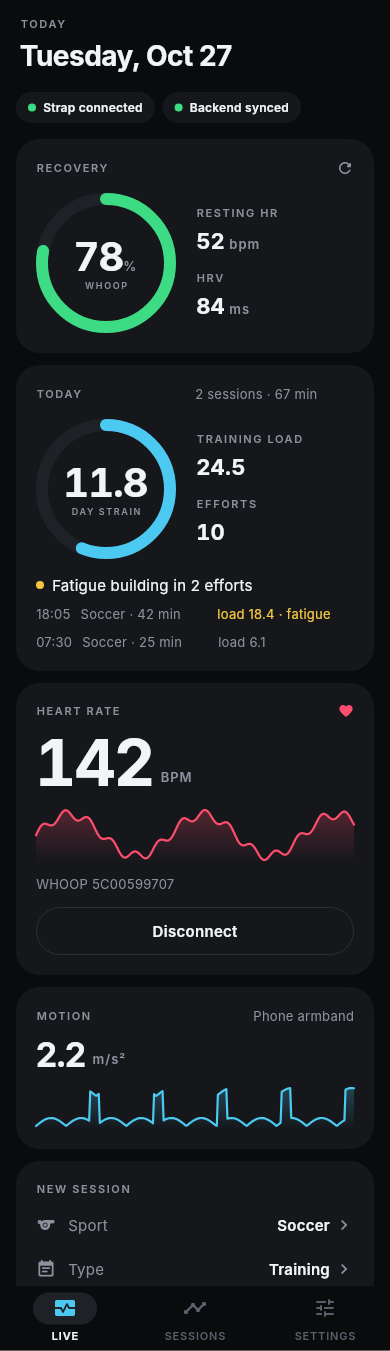
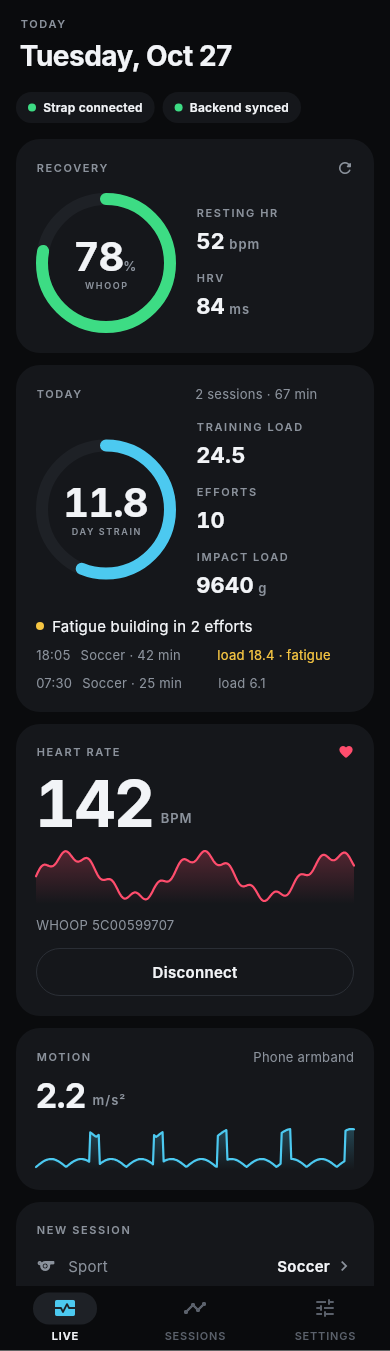
Live footstrikes and impact load in the app; Today card shows impact load
StrikeDetector is the streaming twin of ltlib/steps.py detect_strikes.
The coach runs it when the motion comes from a leg placement listed in
the profile; sessions save impact_load and strikes in their summary.

Claude-Session: https://claude.ai/code/session_01KFCVDkKXqChCgF5SN3SG88

diff --git a/mobile/test/strikes_test.dart b/mobile/test/strikes_test.dart
@@ -1,0 +1,55 @@
+import 'dart:io';
+
+import 'package:flutter_test/flutter_test.dart';
+import 'package:live_training/coach/live_coach.dart';
+import 'package:live_training/coach/profiles.dart';
+import 'package:live_training/coach/strikes.dart';
+
+/// Same signal as analysis/tests/test_steps.py `gait`: standing at 1 g, then our foot every
+/// [strideS] (peak [ownG]) and the other foot halfway between (smaller).
+List<(double, double)> gait(double seconds, double strideS, double ownG, double otherG) {
+  const hz = 100;
+  final n = (seconds * hz).round();
+  final g = List<double>.filled(n, 1);
+  var k = 0;
+  for (var strike = 1.0; strike < seconds - 0.1; strike += strideS / 2, k++) {
+    final i = (strike * hz).round();
+    g[i] = k.isEven ? ownG : otherG;
+    g[i - 1] = g[i + 1] = 1 + (g[i] - 1) / 2;
+  }
+  return [for (var i = 0; i < n; i++) (i / hz, g[i])];
+}
+
+void main() {
+  test('keeps our foot, drops the other one, adds up impact load (same as the Python test)', () {
+    final d = StrikeDetector(minPeakG: 2.0, minIntervalS: 0.35, weightExponent: 2);
+    for (final (t, g) in gait(11, 0.6, 12, 5)) {
+      d.add(t, g);
+    }
+    d.add(11.5, 1); // let the last strike settle
+    expect(d.strikes, 17);
+    expect(d.impactLoad, closeTo(17 * 12.0, 1e-9));
+    expect(d.impactLoadWeighted, closeTo(17 * 144.0, 1e-9));
+    expect(d.hardestG, 12);
+  });
+
+  test('standing and walking below the minimum peak are not strikes', () {
+    final d = StrikeDetector(minPeakG: 2.0, minIntervalS: 0.35, weightExponent: 2);
+    for (final (t, g) in gait(10, 1.1, 1.8, 1.4)) {
+      d.add(t, g);
+    }
+    expect(d.strikes, 0);
+  });
+
+  test('the coach counts strikes only for leg placements', () {
+    final profiles = SportProfiles.parse(File('assets/sport_profiles.yaml').readAsStringSync());
+    final ankle = LiveCoach(CoachConfig.fromProfile(profiles.forSport('soccer'), 'ankle'));
+    final pocket = LiveCoach(CoachConfig.fromProfile(profiles.forSport('soccer'), 'phone_pocket'));
+    expect(pocket.strikes, isNull);
+    for (final (t, g) in gait(11, 0.6, 12, 5)) {
+      ankle.addAcc((t * 1000).round(), 0, g * 9.81, 0);
+    }
+    ankle.addAcc(11500, 0, 9.81, 0);
+    expect(ankle.strikes!.strikes, 17);
+  });
+}

diff --git a/mobile/lib/coach/live_coach.dart b/mobile/lib/coach/live_coach.dart
@@ -8,6 +8,7 @@ import 'dart:math' as math;
 
 import '../util/motion.dart';
 import 'profiles.dart';
+import 'strikes.dart';
 
 enum CallType { readiness, warmedUp, effort, fatigue }
 
@@ -49,12 +50,22 @@ class LiveEffort {
 
 class LiveCoach {
   LiveCoach(this.cfg, {this.restingHr, this.recoveryScore})
-    : _windowBins = math.max(1, (cfg.smoothingWindowS * gridHz).round());
+    : _windowBins = math.max(1, (cfg.smoothingWindowS * gridHz).round()),
+      strikes = cfg.strikeMinPeakG == null
+          ? null
+          : StrikeDetector(
+              minPeakG: cfg.strikeMinPeakG!,
+              minIntervalS: cfg.strikeMinIntervalS,
+              weightExponent: cfg.impactWeightExponent,
+            );
 
   static const gridHz = 10; // same grid as analysis/ltlib/core.py
   static const _hrMaxGapS = 5.0;
 
   final CoachConfig cfg;
+
+  /// Footstrikes and impact load, when the motion comes from a leg (null otherwise).
+  final StrikeDetector? strikes;
 
   /// From WHOOP. Without it, warm-up is measured against the lowest HR of the first minute.
   final double? restingHr;
@@ -102,7 +113,12 @@ class LiveCoach {
     if (score == null) return const [];
     final pct = score.round();
     final call = score >= cfg.readinessHighFrom
-        ? CoachCall(CallType.readiness, 0, 'High readiness · $pct%', 'Recovered well. A good day to push the hard sets.')
+        ? CoachCall(
+            CallType.readiness,
+            0,
+            'High readiness · $pct%',
+            'Recovered well. A good day to push the hard sets.',
+          )
         : score < cfg.readinessLowBelow
         ? CoachCall(CallType.readiness, 0, 'Low readiness · $pct%', 'Recovery is low. Keep today\'s load lighter.')
         : CoachCall(
@@ -115,6 +131,7 @@ class LiveCoach {
   }
 
   void addAcc(int tMs, double x, double y, double z) {
+    strikes?.add(tMs / 1000, math.sqrt(x * x + y * y + z * z) / gravity);
     final bin = tMs ~/ (1000 ~/ gridHz);
     if (_bin != null && bin != _bin) _closeBin();
     _bin = bin;

diff --git a/mobile/lib/coach/strikes.dart b/mobile/lib/coach/strikes.dart
@@ -1,0 +1,57 @@
+/// Live footstrikes and impact load from a leg-worn sensor. A streaming version of
+/// analysis/ltlib/steps.py `detect_strikes` + `impact_load`: local maxima of total |acc| (in g)
+/// above a minimum, with no stronger peak closer than the minimum interval (that drops the other
+/// foot's landing). Pure Dart, unit-testable.
+library;
+
+import 'dart:math' as math;
+
+class _Peak {
+  _Peak(this.t, this.g);
+  final double t;
+  final double g;
+  bool decided = false;
+}
+
+class StrikeDetector {
+  StrikeDetector({required this.minPeakG, required this.minIntervalS, required this.weightExponent});
+
+  final double minPeakG;
+  final double minIntervalS;
+  final double weightExponent;
+
+  int strikes = 0;
+  double impactLoad = 0;
+  double impactLoadWeighted = 0;
+  double? hardestG;
+
+  double? _t1, _g1, _g2; // the previous two samples
+  final List<_Peak> _recent = [];
+
+  /// [tS] seconds, [g] total acceleration in g. Samples in time order.
+  void add(double tS, double g) {
+    final g1 = _g1, g2 = _g2, t1 = _t1;
+    if (g1 != null && g2 != null && t1 != null && g1 > minPeakG && g1 >= g2 && g1 >= g) _recent.add(_Peak(t1, g1));
+    _g2 = g1;
+    _g1 = g;
+    _t1 = tS;
+
+    // A peak is decided once no new peak within the interval after it can still arrive.
+    for (final p in _recent) {
+      if (p.decided || tS - p.t < minIntervalS) continue;
+      p.decided = true;
+      final beaten = _recent.any(
+        (q) => !identical(q, p) && (q.t - p.t).abs() < minIntervalS && (q.g > p.g || (q.g == p.g && q.t < p.t)),
+      );
+      if (!beaten) _count(p.g);
+    }
+    _recent.removeWhere((p) => p.decided && tS - p.t >= 2 * minIntervalS);
+  }
+
+  void _count(double g) {
+    strikes++;
+    impactLoad += g;
+    impactLoadWeighted += math.pow(g, weightExponent).toDouble();
+    hardestG = math.max(hardestG ?? g, g);
+  }
+}

diff --git a/mobile/lib/util/day_summary.dart b/mobile/lib/util/day_summary.dart
@@ -10,6 +10,8 @@ class SessionSummary {
     required this.fatigueEfforts,
     this.hrAvg,
     this.hrMax,
+    this.impactLoad,
+    this.strikes,
   });
 
   /// Motion load, (m/s²)·min, as SessionStats.load.
@@ -21,12 +23,18 @@ class SessionSummary {
   final double? hrAvg;
   final double? hrMax;
 
+  /// Sum of footstrike peaks in g, from a leg sensor (null without one).
+  final double? impactLoad;
+  final int? strikes;
+
   Map<String, dynamic> toJson() => {
     'load': double.parse(load.toStringAsFixed(1)),
     'efforts': efforts,
     'fatigue_efforts': fatigueEfforts,
     'hr_avg': hrAvg?.round(),
     'hr_max': hrMax?.round(),
+    if (impactLoad != null) 'impact_load': impactLoad!.round(),
+    if (strikes != null) 'strikes': strikes,
   };
 
   /// Null for sessions recorded before summaries existed (or by another device).
@@ -38,6 +46,8 @@ class SessionSummary {
       fatigueEfforts: (j['fatigue_efforts'] as num?)?.toInt() ?? 0,
       hrAvg: (j['hr_avg'] as num?)?.toDouble(),
       hrMax: (j['hr_max'] as num?)?.toDouble(),
+      impactLoad: (j['impact_load'] as num?)?.toDouble(),
+      strikes: (j['strikes'] as num?)?.toInt(),
     );
   }
 }
@@ -69,6 +79,13 @@ class DaySummary {
   int get sessions => entries.length;
   Duration get trainingTime => entries.fold(Duration.zero, (sum, e) => sum + e.duration);
   double get load => entries.fold(0.0, (sum, e) => sum + (e.summary?.load ?? 0));
+
+  /// Null when no session today had a leg sensor.
+  double? get impactLoad {
+    final values = entries.map((e) => e.summary?.impactLoad).whereType<double>();
+    return values.isEmpty ? null : values.reduce((a, b) => a + b);
+  }
+
   int get efforts => entries.fold(0, (sum, e) => sum + (e.summary?.efforts ?? 0));
   int get fatigueEfforts => entries.fold(0, (sum, e) => sum + (e.summary?.fatigueEfforts ?? 0));
 

diff --git a/mobile/lib/coach/profiles.dart b/mobile/lib/coach/profiles.dart
@@ -62,6 +62,9 @@ class CoachConfig {
     required this.warmupSustainS,
     required this.readinessLowBelow,
     required this.readinessHighFrom,
+    this.strikeMinPeakG,
+    this.strikeMinIntervalS = 0.35,
+    this.impactWeightExponent = 1,
   });
 
   factory CoachConfig.fromProfile(Map<String, dynamic> profile, String? placement) {
@@ -71,6 +74,8 @@ class CoachConfig {
     final fatigue = profile['fatigue'] as Map<String, dynamic>;
     final warmup = profile['warmup'] as Map<String, dynamic>;
     final readiness = profile['readiness'] as Map<String, dynamic>;
+    final steps = profile['steps'] as Map<String, dynamic>?;
+    final legWorn = steps != null && ((steps['placements'] as List?) ?? const []).contains(placement);
     return CoachConfig(
       profileName: profile['name'] as String,
       smoothingWindowS: _num(profile['motion'] as Map<String, dynamic>, 'smoothing_window_s'),
@@ -85,6 +90,9 @@ class CoachConfig {
       warmupSustainS: _num(warmup, 'sustain_s'),
       readinessLowBelow: _num(readiness, 'low_below'),
       readinessHighFrom: _num(readiness, 'high_from'),
+      strikeMinPeakG: legWorn ? _num(steps, 'min_peak_g') : null,
+      strikeMinIntervalS: legWorn ? _num(steps, 'min_interval_s') : 0.35,
+      impactWeightExponent: legWorn ? _num(profile['impact'] as Map<String, dynamic>, 'weight_exponent') : 1,
     );
   }
 
@@ -101,4 +109,9 @@ class CoachConfig {
   final double warmupSustainS;
   final double readinessLowBelow;
   final double readinessHighFrom;
+
+  /// Footstrike detection, only for leg placements listed in the profile's `steps` block (else null).
+  final double? strikeMinPeakG;
+  final double strikeMinIntervalS;
+  final double impactWeightExponent;
 }

diff --git a/mobile/lib/screens/home_screen.dart b/mobile/lib/screens/home_screen.dart
@@ -270,6 +270,10 @@ class _TodayCard extends StatelessWidget {
                     _MiniStat(label: 'Training load', value: day.load.toStringAsFixed(1), unit: ''),
                     const SizedBox(height: 14),
                     _MiniStat(label: 'Efforts', value: '${day.efforts}', unit: ''),
+                    if (day.impactLoad != null) ...[
+                      const SizedBox(height: 14),
+                      _MiniStat(label: 'Impact load', value: day.impactLoad!.round().toString(), unit: 'g'),
+                    ],
                   ],
                 ),
               ),
@@ -470,7 +474,7 @@ class _MotionCard extends StatelessWidget {
                       ),
                     ],
                   )
-                : Text('Phone · ${prettySlug(controller.placement)}', style: AppText.dim),
+                : Text(prettySlug(controller.placement), style: AppText.dim),
           ),
           const SizedBox(height: 12),
           Row(

diff --git a/mobile/lib/app_controller.dart b/mobile/lib/app_controller.dart
@@ -336,6 +336,8 @@ class AppController extends ChangeNotifier {
         fatigueEfforts: c?.efforts.where((e) => e.fatigue).length ?? 0,
         hrAvg: stats.hrAvg,
         hrMax: stats.hrMax,
+        impactLoad: c?.strikes?.impactLoad,
+        strikes: c?.strikes?.strikes,
       ).toJson(),
     );
     coach = null;

diff --git a/mobile/test/ui_screens_test.dart b/mobile/test/ui_screens_test.dart
@@ -94,6 +94,8 @@ Future<AppController> _controller({required bool withData}) async {
       'efforts': 7,
       'fatigue_efforts': 2,
       'hr_max': 178,
+      'impact_load': 9640,
+      'strikes': 1105,
     }),
     _localSession('b', today.add(const Duration(hours: 7, minutes: 30)), 25, {
       'load': 6.1,
